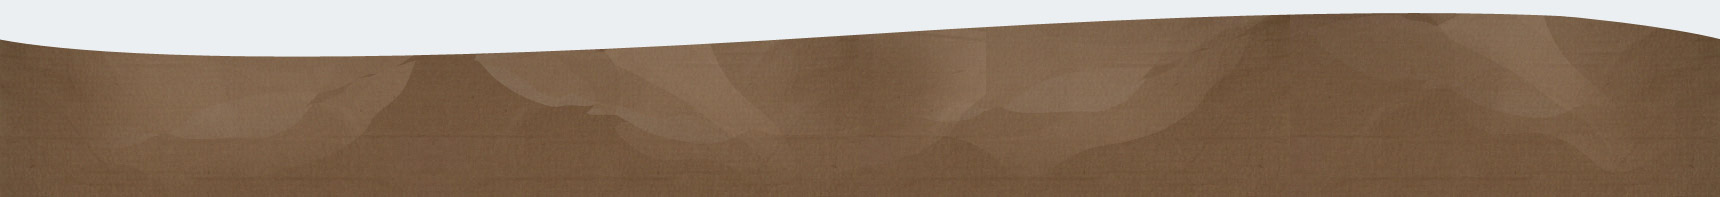
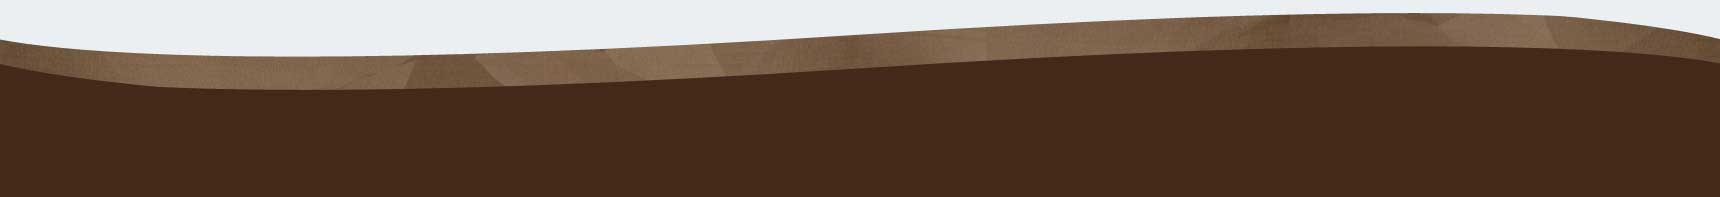
footer added in html.tpl.php which is very bad + css + images to correct homepage

diff --git a/sites/all/themes/ew3_dagobert/css/_custom.css b/sites/all/themes/ew3_dagobert/css/_custom.css
@@ -2,7 +2,7 @@ body{
     background : #BECED9 url(../images/fond_top.png) repeat-x 0 0;
 }
 body.front #over_body{
-    padding-bottom :197px;
+    padding-bottom :150px;
     background :url(../images/footer1.jpg) repeat-x 50% 100%;
 }
 #secondary-menu{
@@ -15,7 +15,7 @@ body.front #over_body{
    display: none;
 }
 #over_body{
-    padding-bottom :197px;
+    padding-bottom :150px;
     background :url(../images/footer1.jpg) repeat-x 50% 100%;
 }
 .over_over_body{
@@ -40,7 +40,80 @@ body.front #header{
 #footer{
     /*background : url(../images/footer1.jpg) no-repeat 0 0;*/
 }
+.region-bottom{
 
+}
+
+/* menu bas gauche ************************************************************/
+div#block-menu-menu-menus-bas-gauche ul{
+    margin:0;
+    padding :0;
+    position : relative;
+    top: 10px;
+}
+div#block-menu-menu-menus-bas-gauche ul li{
+    margin:0;
+    padding :0;
+    list-style: none;
+    float : left;
+}
+div#block-menu-menu-menus-bas-gauche ul li.first{
+   border-right : 1px dashed #40281E;
+}
+div#block-menu-menu-menus-bas-gauche ul li.first:hover{
+   border-right : 0;
+}
+div#block-menu-menu-menus-bas-gauche ul li a {
+   display : block;
+   border-radius : 8px 8px 8px 8px;
+   padding : 0 10px;
+   text-decoration : none;
+   color : #40281E;
+   text-transform: uppercase;
+   font-size: 0.8em;
+   font-family : arial,sans-serif;
+}
+div#block-menu-menu-menus-bas-gauche ul li a:hover{
+    background-color: #E4202E;
+    color : white;
+}
+/* menus bas centre ***********************************************************/
+#wrapperInnerFooter {
+    background-color: #43291A;
+    width: 960px;
+    height: 50px;
+    position: relative;
+    top:100px;
+    margin: 0 auto;
+}
+#wrapperInnerFooter ul li a:hover {
+    color: #CCC;
+}
+#wrapperInnerFooter ul li a {
+    text-decoration: none;
+    color: #FFF;
+}
+#wrapperInnerFooter ul li {
+    display: inline;
+    font-size: x-small;
+    padding: 0 5px 0 0;
+    list-style: none;
+}
+.fluxRSS {
+    position: relative;
+    left: 900px;
+    top: -70px;
+}
+.fluxRSS a {
+    background: url(../images/icons/fluxRSS.gif) no-repeat 0 0;
+    height: 43px;
+    width: 38px;
+    display: block;
+    text-indent: -9999px;
+}
+.fluxRSS a:hover {
+    background: url(../images/icons/fluxRSS.gif) no-repeat 0 100%;
+}
 /* bandeau ********************************************************************/
 .region-header{
     border : 1px solid transparent;
@@ -97,8 +170,8 @@ body.front #header{
 }
 #views_slideshow_controls_text_previous_diaporama_accueil-block{
     position : absolute;
-    top : 150px;
-    left : -68px;
+    top : 225px;
+    left : 20px;
     display: block;
     width :46px;
     height :46px ;
@@ -107,10 +180,10 @@ body.front #header{
 }
 #views_slideshow_controls_text_next_diaporama_accueil-block{
     position : absolute;
-    top : 150px;
-    left :945px;
+    top : 225px;
+    left :912px;
     display: block;
-   width :46px;
+    width :46px;
     height :46px ;
     background: url(../images/icons/flecheDSlider.png) no-repeat 0 0;
     z-index:9999;
@@ -205,6 +278,11 @@ body.front #header{
 }
 #block-menu-menu-agenda-actualites ul li a:hover{
    background: #43291B url(../images/icons/bgActuPlus.png) no-repeat 0 100%;
+}
+/* Menus bas gauche ***********************************************************/
+#block-menu-menu-menus-bas-gauche h2{
+   position : absolute;
+   left : -6000px;
 }
 /* search *********************************************************************/
 #block-search-form{
@@ -374,6 +452,7 @@ body.front #block-om-maximenu-om-maximenu-1{
     text-decoration: none;
     line-height: 18px;
     font-weight: bold;
+    font-size: 0.9em;
 }
 
  #om-menu-menu-principal li.om-leaf{
@@ -387,14 +466,14 @@ body.front #block-om-maximenu-om-maximenu-1{
     margin : 0 2px 0 16px;
 }
 #om-menu-menu-principal li#om-leaf-om-u1-654698953-2 a:hover{
-    background-color: #D40136;
+    background-color: #DD9D17;
 }
 #om-leaf-om-u1-654698953-4 a{
     width:95px;
     margin : 0 2px 0 0;
 }
 #om-menu-menu-principal li#om-leaf-om-u1-654698953-4 a:hover{
-    background-color: #DD9D17;
+    background-color: #D40136;
 }
 #om-leaf-om-u1-654698953-3 a{
     width:135px;
@@ -626,6 +705,7 @@ a#all-actu-home:hover{
     border-radius : 8px 8px 8px 8px;
     position : relative;
     height: 45px;
+    font-family: arial, sans-serif
 }
 #block-views-agenda-block ul li .views-field-field-agenda-period,
 #block-views-agenda-block ul li .views-field-field-agenda-period-1{
@@ -655,4 +735,16 @@ a#all-actu-home:hover{
     width:262px;
     z-index : 10;
     position : absolute;
+}
+
+/* Pages classiques **********************************************************/
+h2#page-title{
+    color: #000;
+    line-height: 12px;
+    background: url(../images/bgH1InterBleu.gif) no-repeat 0 100%;
+    padding-bottom: 20px;
+    font-size: 1.75em;
+    margin: 0 0 5px -10px;
+    padding-top: 5px;
+    width: 705px;
 }

diff --git a/sites/all/themes/ew3_dagobert/templates/html.tpl.php b/sites/all/themes/ew3_dagobert/templates/html.tpl.php
@@ -110,6 +110,17 @@
   <?php print $page; ?>
   <?php print $page_bottom; ?>
      </div>
+     <div id="wrapperInnerFooter">
+        <ul>
+            <li><a href="aide">Aide à la navigation et accessibilité</a></li>
+            <li><a accesskey="m" href="plan">Plan du site</a></li>
+            <li><a href="contact">Contact</a></li>
+            <li><a href="informations_legales">Informations légales</a></li>
+            <li><a href="credits">Crédits</a></li>
+            <li class="fluxRSS"><a href="getrss.html?flux=flux_actualites" target="_blank">Flux RSS</a></li>
+        </ul>
+    </div>
  </div>
+    
 </body>
 </html>
